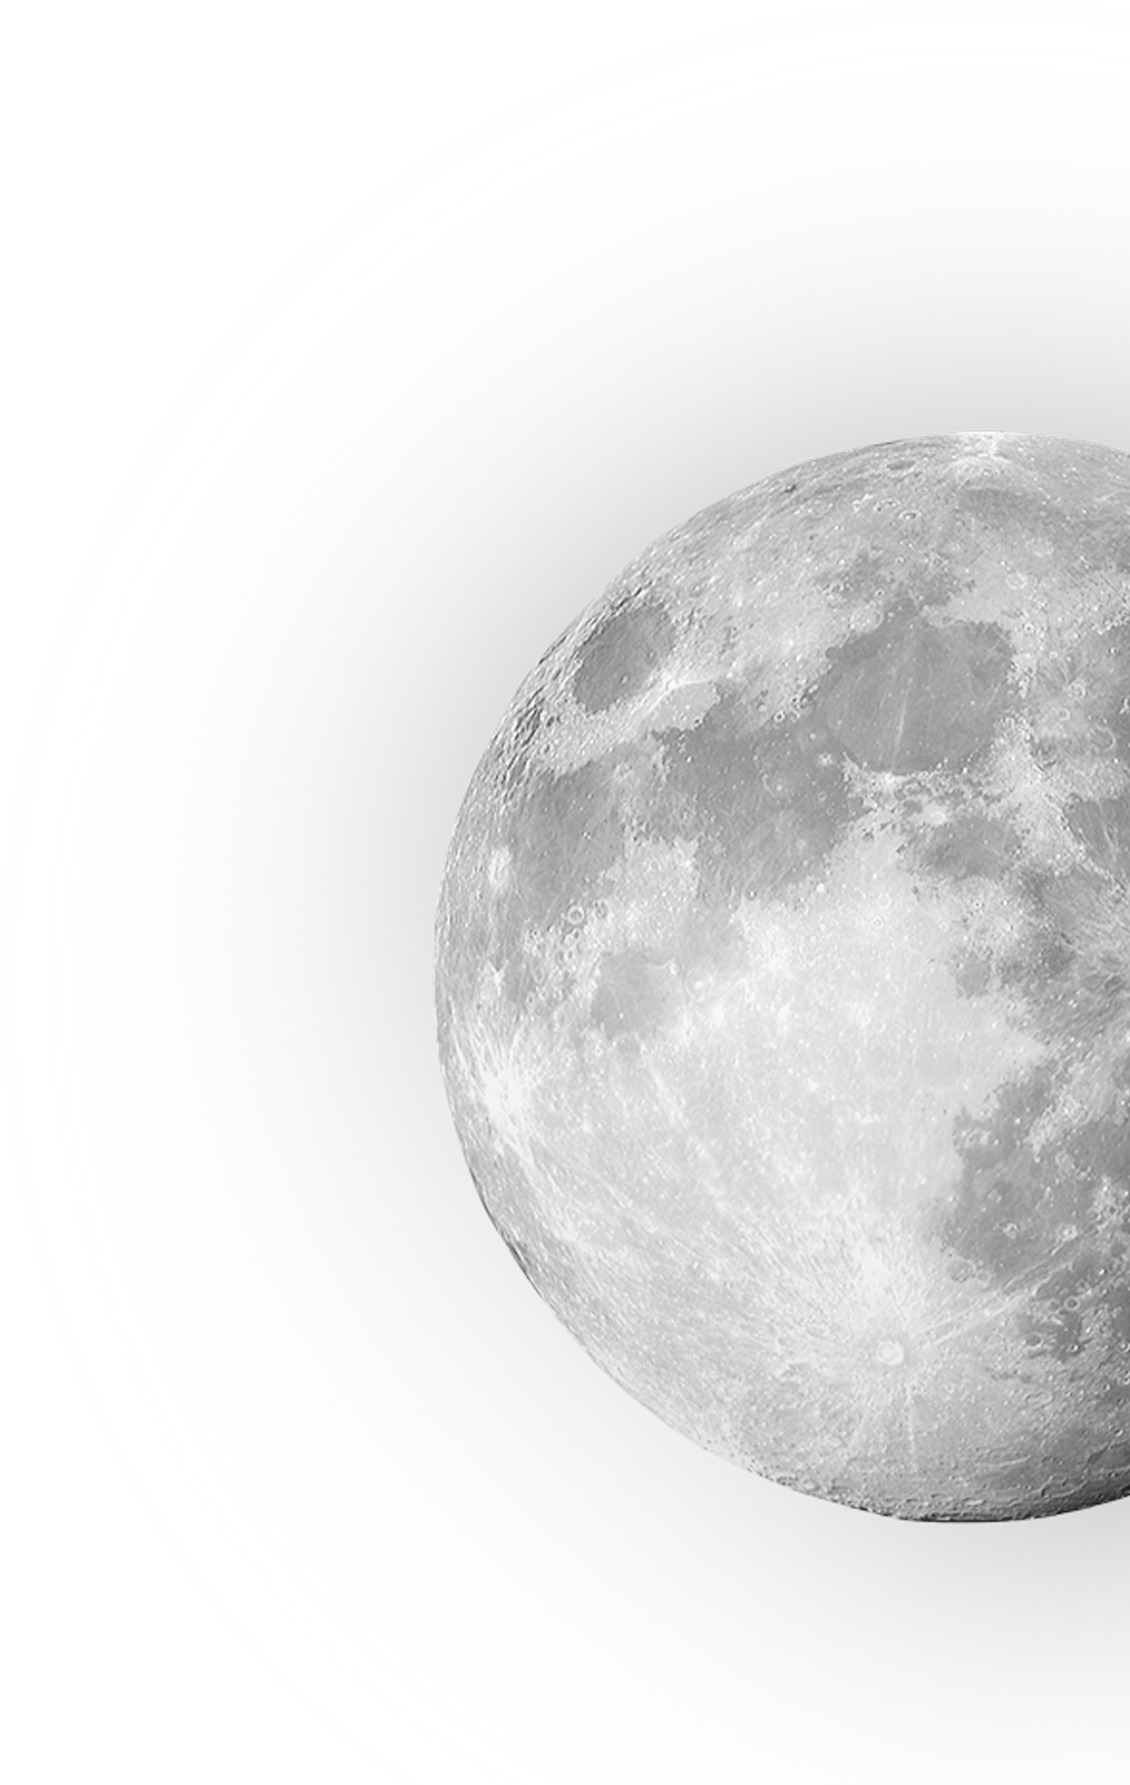
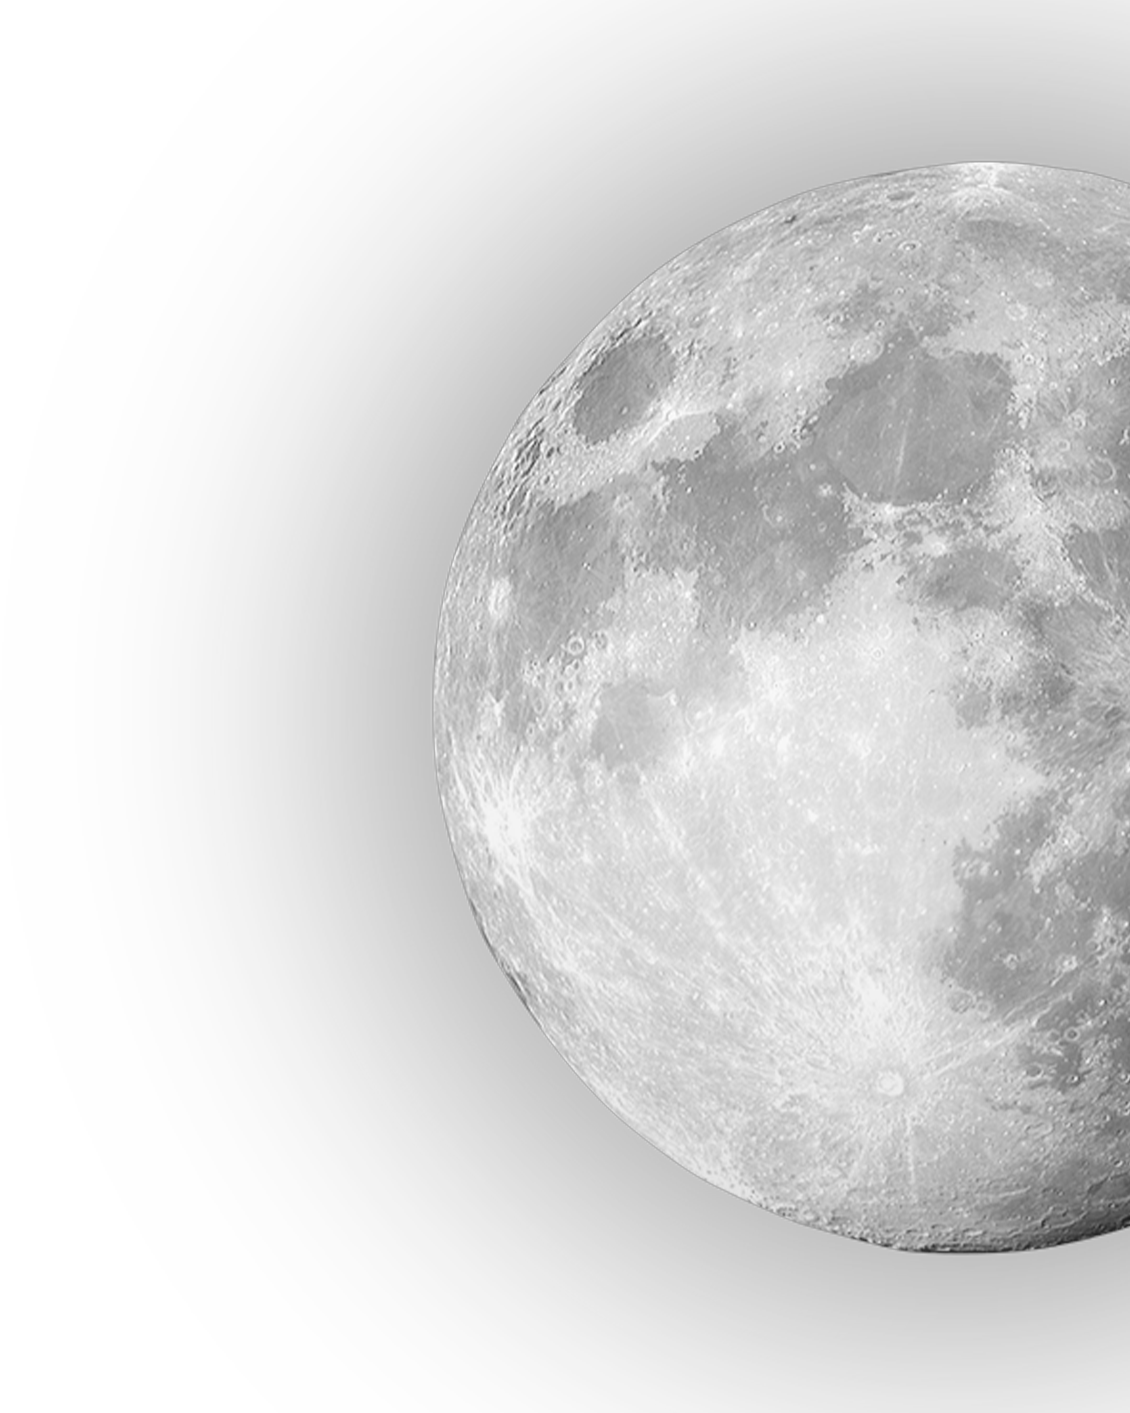
hero and first section done

diff --git a/public/css/hero.css b/public/css/hero.css
@@ -1,0 +1,144 @@
+body {
+    height: 100vh;
+    width: 100vw;
+    overflow: hidden;
+    background-image: url("/images/moon-website-export_0016_bg.png");
+    background-repeat: no-repeat;
+}
+html {
+    scroll-behavior: smooth;
+}
+
+.hero{
+    height: 100%;
+    display: flex;
+    align-items: center;
+    justify-content: center;
+    flex-direction: column;
+}
+
+#title{
+    color: #fff;
+    font-weight: 100;
+    font-size: 2rem;
+}
+.hero-nav{
+    position: absolute;
+    width: 100%;
+    display: flex;
+    justify-content: space-between;
+    padding: 10px 20px;
+    top: 0;
+}
+.hero-nav > img{
+    height: 2.5rem;
+    aspect-ratio: 1/1;
+}
+.hero-moon{
+    height: 70%;
+}
+
+.hero-button{
+    width: 100%;
+    height: 30%;
+    display: flex;
+    align-items: center;
+    justify-content: center;
+    column-gap: 4rem;
+}
+.hero-moon > img{
+    height: 90vh;
+    aspect-ratio: 1/1;
+}
+
+.control-btn{
+    text-decoration: none;
+    color: #fff;
+    font-size: 2rem;
+    border: 3px solid #fff;
+    padding: 10px;
+    border-radius: 0 20px 0 20px;
+    transition: .2s ease-in-out;
+    z-index: 999;
+}
+
+.control-btn:hover{
+    border-radius: 20px 0 20px 0;
+    scale: 1.05;
+    border-color: #777777;
+}
+
+.story{
+    width:100%;
+    height:100%;
+    background-color: #fff;
+    display: flex;
+    flex-direction: row;
+    position: relative;
+}
+
+#s1{
+    background-image: url("/images/moon-website-export_0015_moon-(merged).png");
+    background-repeat: no-repeat;
+    background-size: contain;
+    background-position-x: right;
+}
+
+#puce{
+    display: flex;
+    align-items: center;
+    flex-direction: column;
+    padding: 40px 0 0 20px;
+}
+
+#container-title-story{
+    padding-top: 42px;
+    display: flex;
+    flex-direction: column;
+    gap: 20px;
+    width: 50%;
+}
+#container-title-story > p{
+    font-weight: 500;
+    padding-left: 45px;
+}
+#title-story{
+    display: flex;
+    font-size: 2rem;
+}
+
+#typewriter-text {
+    overflow: hidden;
+    white-space: wrap;
+    font-size: 1.5rem;
+}
+.cursor {
+    border-right: .15em solid #777;
+    display: none; /* Hide the cursor initially */
+    animation: blink-caret .75s step-end infinite;
+}
+
+
+@keyframes typing {
+    from {
+        width: 0;
+    }
+    to {
+        width: 100%;
+    }
+}
+
+#d-right{
+    position: relative;
+    width: 30%;
+    flex-grow: 1;
+}
+
+
+
+#d-right > img:first-child {
+    position: absolute;
+    height: 700px;
+    right: 0px;
+    top: -437px;
+}

diff --git a/public/css/style.css b/public/css/style.css
@@ -5,6 +5,16 @@
     font-style: normal;
 }
 
+:root {
+    --bg: #ffffff;
+}
+
 body {
     font-family: 'Electrolize', sans-serif;
+}
+
+* {
+    margin: 0;
+    padding: 0;
+    box-sizing: border-box;
 }
